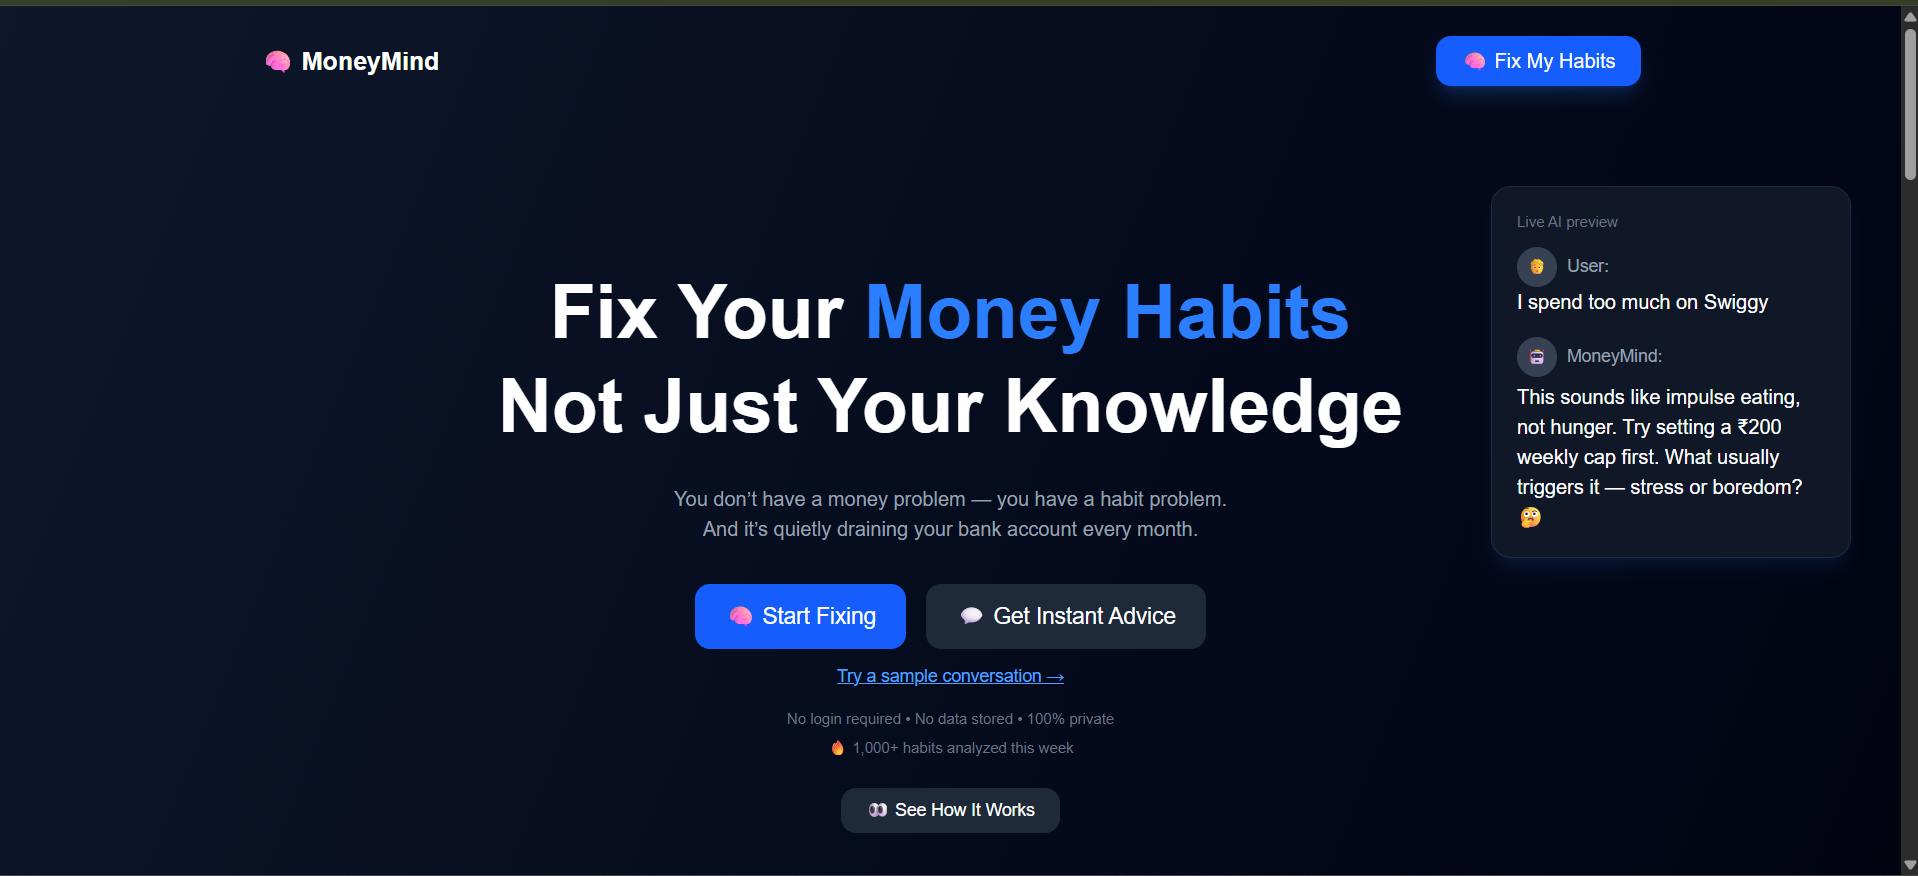
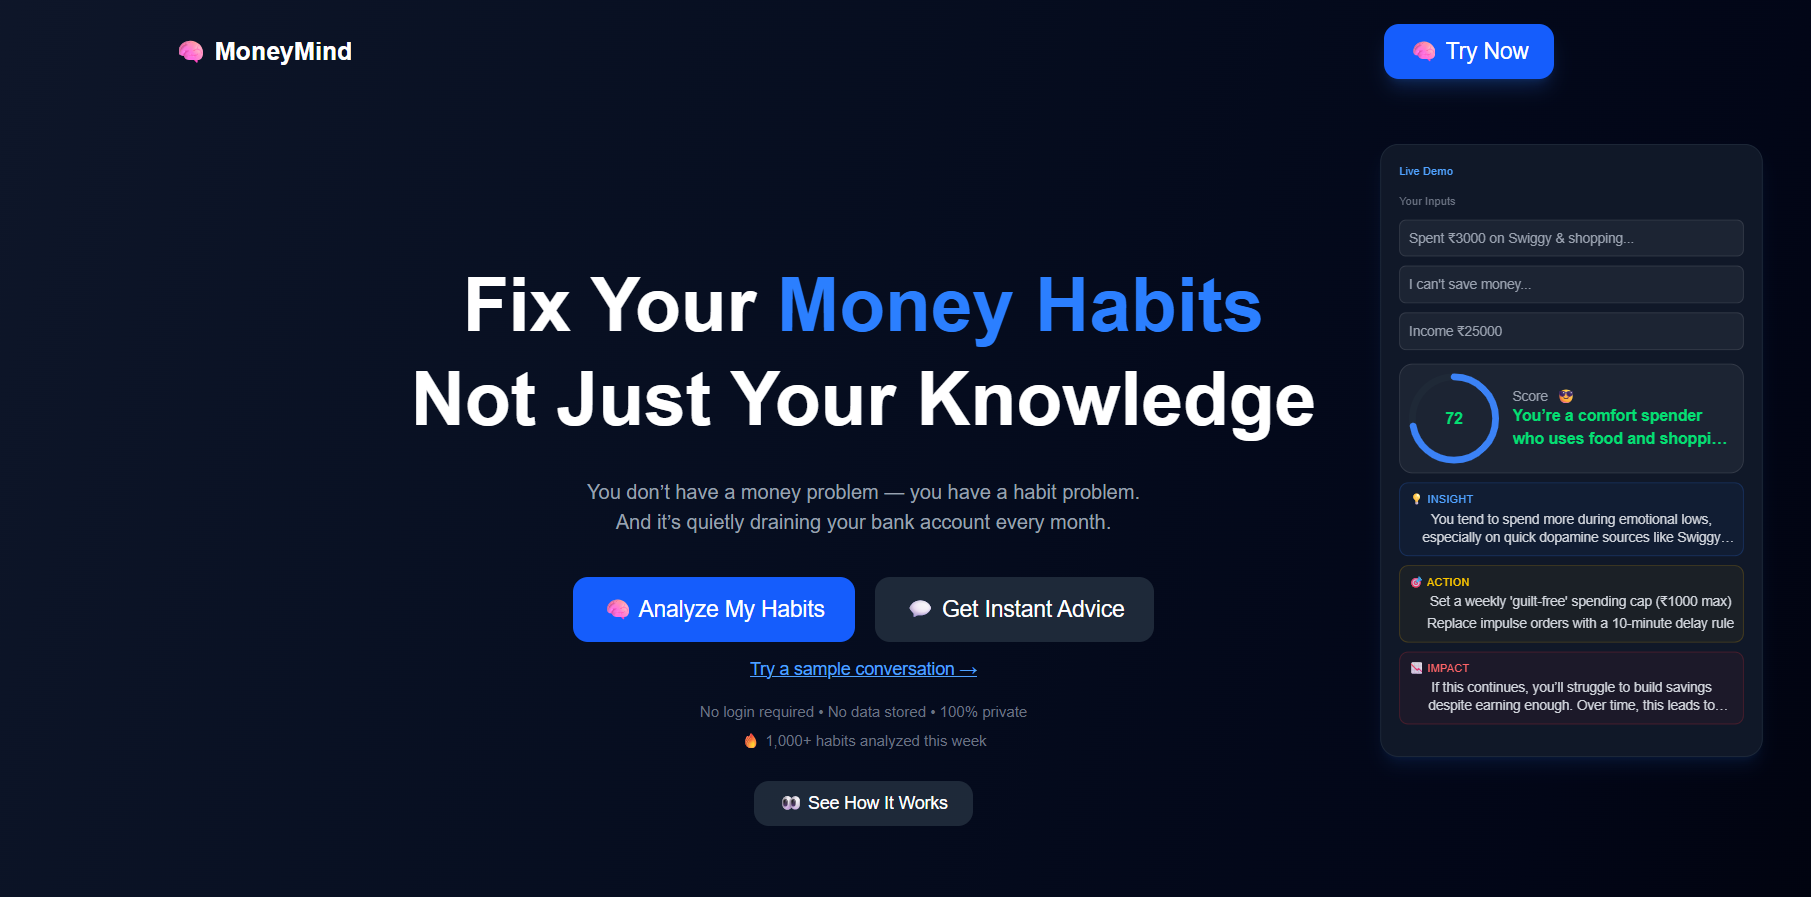
"Navbar button style changed & preview image uploaded"

Changed region(s): [[0.0, 0.0, 1.0, 1.0], [0.3092, 0.524, 0.6494, 0.9555], [0.2165, 0.3082, 0.7421, 0.524]]

diff --git a/app/analyze/page.tsx b/app/analyze/page.tsx
@@ -5,6 +5,7 @@ import Link from "next/link";
 import { toast } from "react-toastify";
 import jsPDF from "jspdf";
 import {
+  ArrowRight,
   Lightbulb,
   Target,
   ToggleLeft,
@@ -501,10 +502,11 @@ export default function AnalyzePage() {
 
         {/* 👉 PRIMARY ACTION */}
         <Link
-          href={"/chat"}
-          className="bg-blue-600 px-5 py-2 text-sm md:text-lg rounded-xl shadow-lg shadow-blue-500/20 hover:scale-105 transition"
+          href="/chat"
+          className="group bg-blue-600 hover:bg-blue-500 px-5 py-2 text-sm md:text-base rounded-xl shadow-lg shadow-blue-500/20 flex items-center justify-center gap-2 hover:scale-105 transition-all duration-200 ease-out"
         >
-          💬 Get Instant Advice
+          Start Chat
+          <ArrowRight className="transition-transform duration-200 group-hover:translate-x-1" />
         </Link>
       </nav>
       <h1 className="text-2xl font-bold text-center mb-6">
@@ -535,7 +537,7 @@ export default function AnalyzePage() {
         />
 
         <div className="flex gap-1.5 justify-between items-center w-full h-16">
-          <div className="flex gap-1.5 justify-start items-center cursor-pointer flex-1 text-xs md:text-lg">
+          <div className="flex flex-col md:flex-row gap-1.5 justify-center md:justify-start items-start md:items-center cursor-pointer flex-1 text-xs md:text-sm  whitespace-pre-wrap">
             Harsh Mode &nbsp;:
             {harshMode ? (
               <ToggleRight
@@ -560,7 +562,7 @@ export default function AnalyzePage() {
               animate={{ opacity: 1, y: 0, scale: 1 }}
               exit={{ opacity: 0, y: -6 }}
               transition={{ duration: 0.25, ease: "easeOut" }}
-              className={`flex-2 text-sm ${harshMode ? "text-red-400" : "text-gray-400"}`}
+              className={`flex-2 text-xs md:text-sm ${harshMode ? "text-red-400" : "text-gray-400"}`}
             >
               {harshMode
                 ? "⚠ Harsh Mode ON: Preparing to roast your financial habits..."

diff --git a/app/page.tsx b/app/page.tsx
@@ -6,6 +6,7 @@ import HowItWorks from "./components/HowItWorks";
 import DemoChat from "./components/DemoChat";
 import DemoAnalysis from "./components/DemoAnalysis";
 import Footer from "./components/Footer";
+import { ArrowRight, ChevronRight } from "lucide-react";
 
 export default function Home() {
   const router = useRouter();
@@ -27,7 +28,7 @@ export default function Home() {
   return (
     <div className="min-h-screen bg-linear-to-br from-[#0f172a] via-[#020617] to-black text-white overflow-x-hidden">
       {/* NAVBAR */}
-      <nav className="flex justify-between items-center px-0.5 py-3 md:p-6 max-w-6xl mx-auto">
+      <nav className="flex justify-between items-center px-0.5 py-3 md:p-6 max-w-screen mx-auto fixed bg-transparent backdrop-blur-2xl w-full z-9999999 md:relative md:w-296">
         <Link
           href={"/"}
           className="text-xs md:text-xl font-bold cursor-pointer"
@@ -38,9 +39,10 @@ export default function Home() {
         {/* 👉 PRIMARY ACTION */}
         <Link
           href={"/analyze"}
-          className="bg-blue-600 px-5 py-2 text-sm md:text-lg rounded-xl shadow-lg shadow-blue-500/20 hover:scale-105 transition"
+          className="group bg-blue-600 hover:bg-blue-500 px-5 py-2 text-sm md:text-base rounded-xl shadow-lg shadow-blue-500/20 flex items-center justify-center gap-2 hover:scale-105 transition-all duration-200 ease-out"
         >
-          🧠 Start Analysing
+          Try Now{" "}
+          <ArrowRight className="transition-transform duration-200 group-hover:translate-x-1" />
         </Link>
       </nav>
 

diff --git a/app/chat/page.tsx b/app/chat/page.tsx
@@ -3,6 +3,7 @@ import { useRef, useState } from "react";
 import { motion } from "framer-motion";
 import Link from "next/link";
 import { toast } from "react-toastify";
+import { ArrowRight } from "lucide-react";
 
 export default function ChatPage() {
   const [messages, setMessages] = useState<{type:string,text:string}[]>([]);
@@ -73,9 +74,10 @@ export default function ChatPage() {
         {/* 👉 PRIMARY ACTION */}
         <Link
           href={"/analyze"}
-          className="bg-blue-600 px-5 py-2 text-sm md:text-lg rounded-xl shadow-lg shadow-blue-500/20 hover:scale-105 transition"
+          className="group bg-blue-600 hover:bg-blue-500 px-5 py-2 text-sm md:text-base rounded-xl shadow-lg shadow-blue-500/20 flex items-center justify-center gap-2 hover:scale-105 transition-all duration-200 ease-out"
         >
-          🧠 Analyze My Habits
+          Try Now{" "}
+          <ArrowRight className="transition-transform duration-200 group-hover:translate-x-1" />
         </Link>
       </nav>
 

diff --git a/HACKONOMICS2026.md b/HACKONOMICS2026.md
@@ -14,7 +14,7 @@ It allows users to:
 
 It focuses on behavior change instead of complex budgeting.
 
-## How we built it
+## How I built it
 
 * Frontend: Next.js + Tailwind CSS + Framer Motion for smooth UI/UX
 * Backend: API routes in Next.js
@@ -22,7 +22,7 @@ It focuses on behavior change instead of complex budgeting.
 * Logic: Custom system prompts to enforce tone, short replies, and behavioral insights
 * UX: Chat-based interface with follow-up questions and contextual memory
 
-## Challenges we ran into
+## Challenges I ran into
 
 * Making AI responses feel human and not robotic
 * Controlling output format (avoiding markdown, long answers, etc.)
@@ -30,7 +30,7 @@ It focuses on behavior change instead of complex budgeting.
 * Managing chat history without increasing latency
 * Creating a clean, engaging UI without overwhelming the user
 
-## Accomplishments that we're proud of
+## Accomplishments that I'm proud of
 
 * Built a highly engaging AI chat experience with personality
 * Achieved concise, actionable AI responses (2–3 lines)
@@ -38,7 +38,7 @@ It focuses on behavior change instead of complex budgeting.
 * Created a strong behavioral finance angle (not just budgeting)
 * Delivered a smooth and modern UI with meaningful interactions
 
-## What we learned
+## What I learned
 
 * Prompt engineering is as important as code
 * Simplicity in UI leads to better engagement
@@ -124,4 +124,80 @@ Here’s a **tight, high-impact 2-minute demo script** you can confidently prese
 * Don’t rush — confidence > speed
 
 ---
+______________________________________
+## 🎤 MoneyMind – 2 Minute Demo Script (Demo First Version)
+
+---
+
+### **[0:00 – 0:20 | Live Demo Hook]**
+
+*(Open with the product already running)*
+
+“Let me show you something real quick.”
+
+👉 *(Point to chat UI as animation starts)*
+“I type: *‘I spend too much on food delivery’*…”
+
+👉 *(Pause while AI types)*
+“And within seconds, this AI doesn’t just give advice — it identifies the behavior behind it.”
+
+👉 *(Let the message finish)*
+“It tells me this is impulse spending, suggests a ₹200 weekly cap, and even asks what’s triggering it — stress or boredom.”
+
+---
+
+### **[0:20 – 0:35 | Impact Statement]**
+
+“This feels less like an app… and more like a personal finance coach that actually understands you.”
+
+---
+
+### **[0:35 – 0:55 | Problem]**
+
+“The problem today is — people already have budgeting apps. They track expenses, set limits… and still overspend.”
+
+“Because the real issue isn’t money — it’s behavior.”
+
+---
+
+### **[0:55 – 1:15 | Solution]**
+
+“MoneyMind is an AI-powered behavioral finance coach that helps users understand *why* they spend — and gives simple, practical ways to fix it.”
+
+“Not complex dashboards. Not spreadsheets. Just clear, human-like guidance.”
+
+---
+
+### **[1:15 – 1:40 | Interaction Demo]**
+
+👉 *(Click into input again)*
+“Let’s try another one — *‘I order late-night snacks every day’*.”
+
+👉 *(Gesture while response happens)*
+“Now instead of generic advice, it identifies patterns like emotional or habitual spending…”
+
+“And gives small, realistic actions — the kind people can actually follow.”
+
+---
+
+### **[1:40 – 1:55 | Differentiator]**
+
+“What makes MoneyMind different is that it focuses on behavior change — not just tracking numbers.”
+
+“It’s instant, private, and feels like talking to someone who gets you.”
+
+---
+
+### **[1:55 – 2:05 | Closing]**
+
+“So instead of tracking every rupee…”
+
+👉 *(Look up, slight pause)*
+**“MoneyMind helps you fix the habits that actually matter.”**
+
+---
+
+### 🔥 Closing Line (confident, slower)
+
+**“Fix your money habits, not just your budget.”**
 
